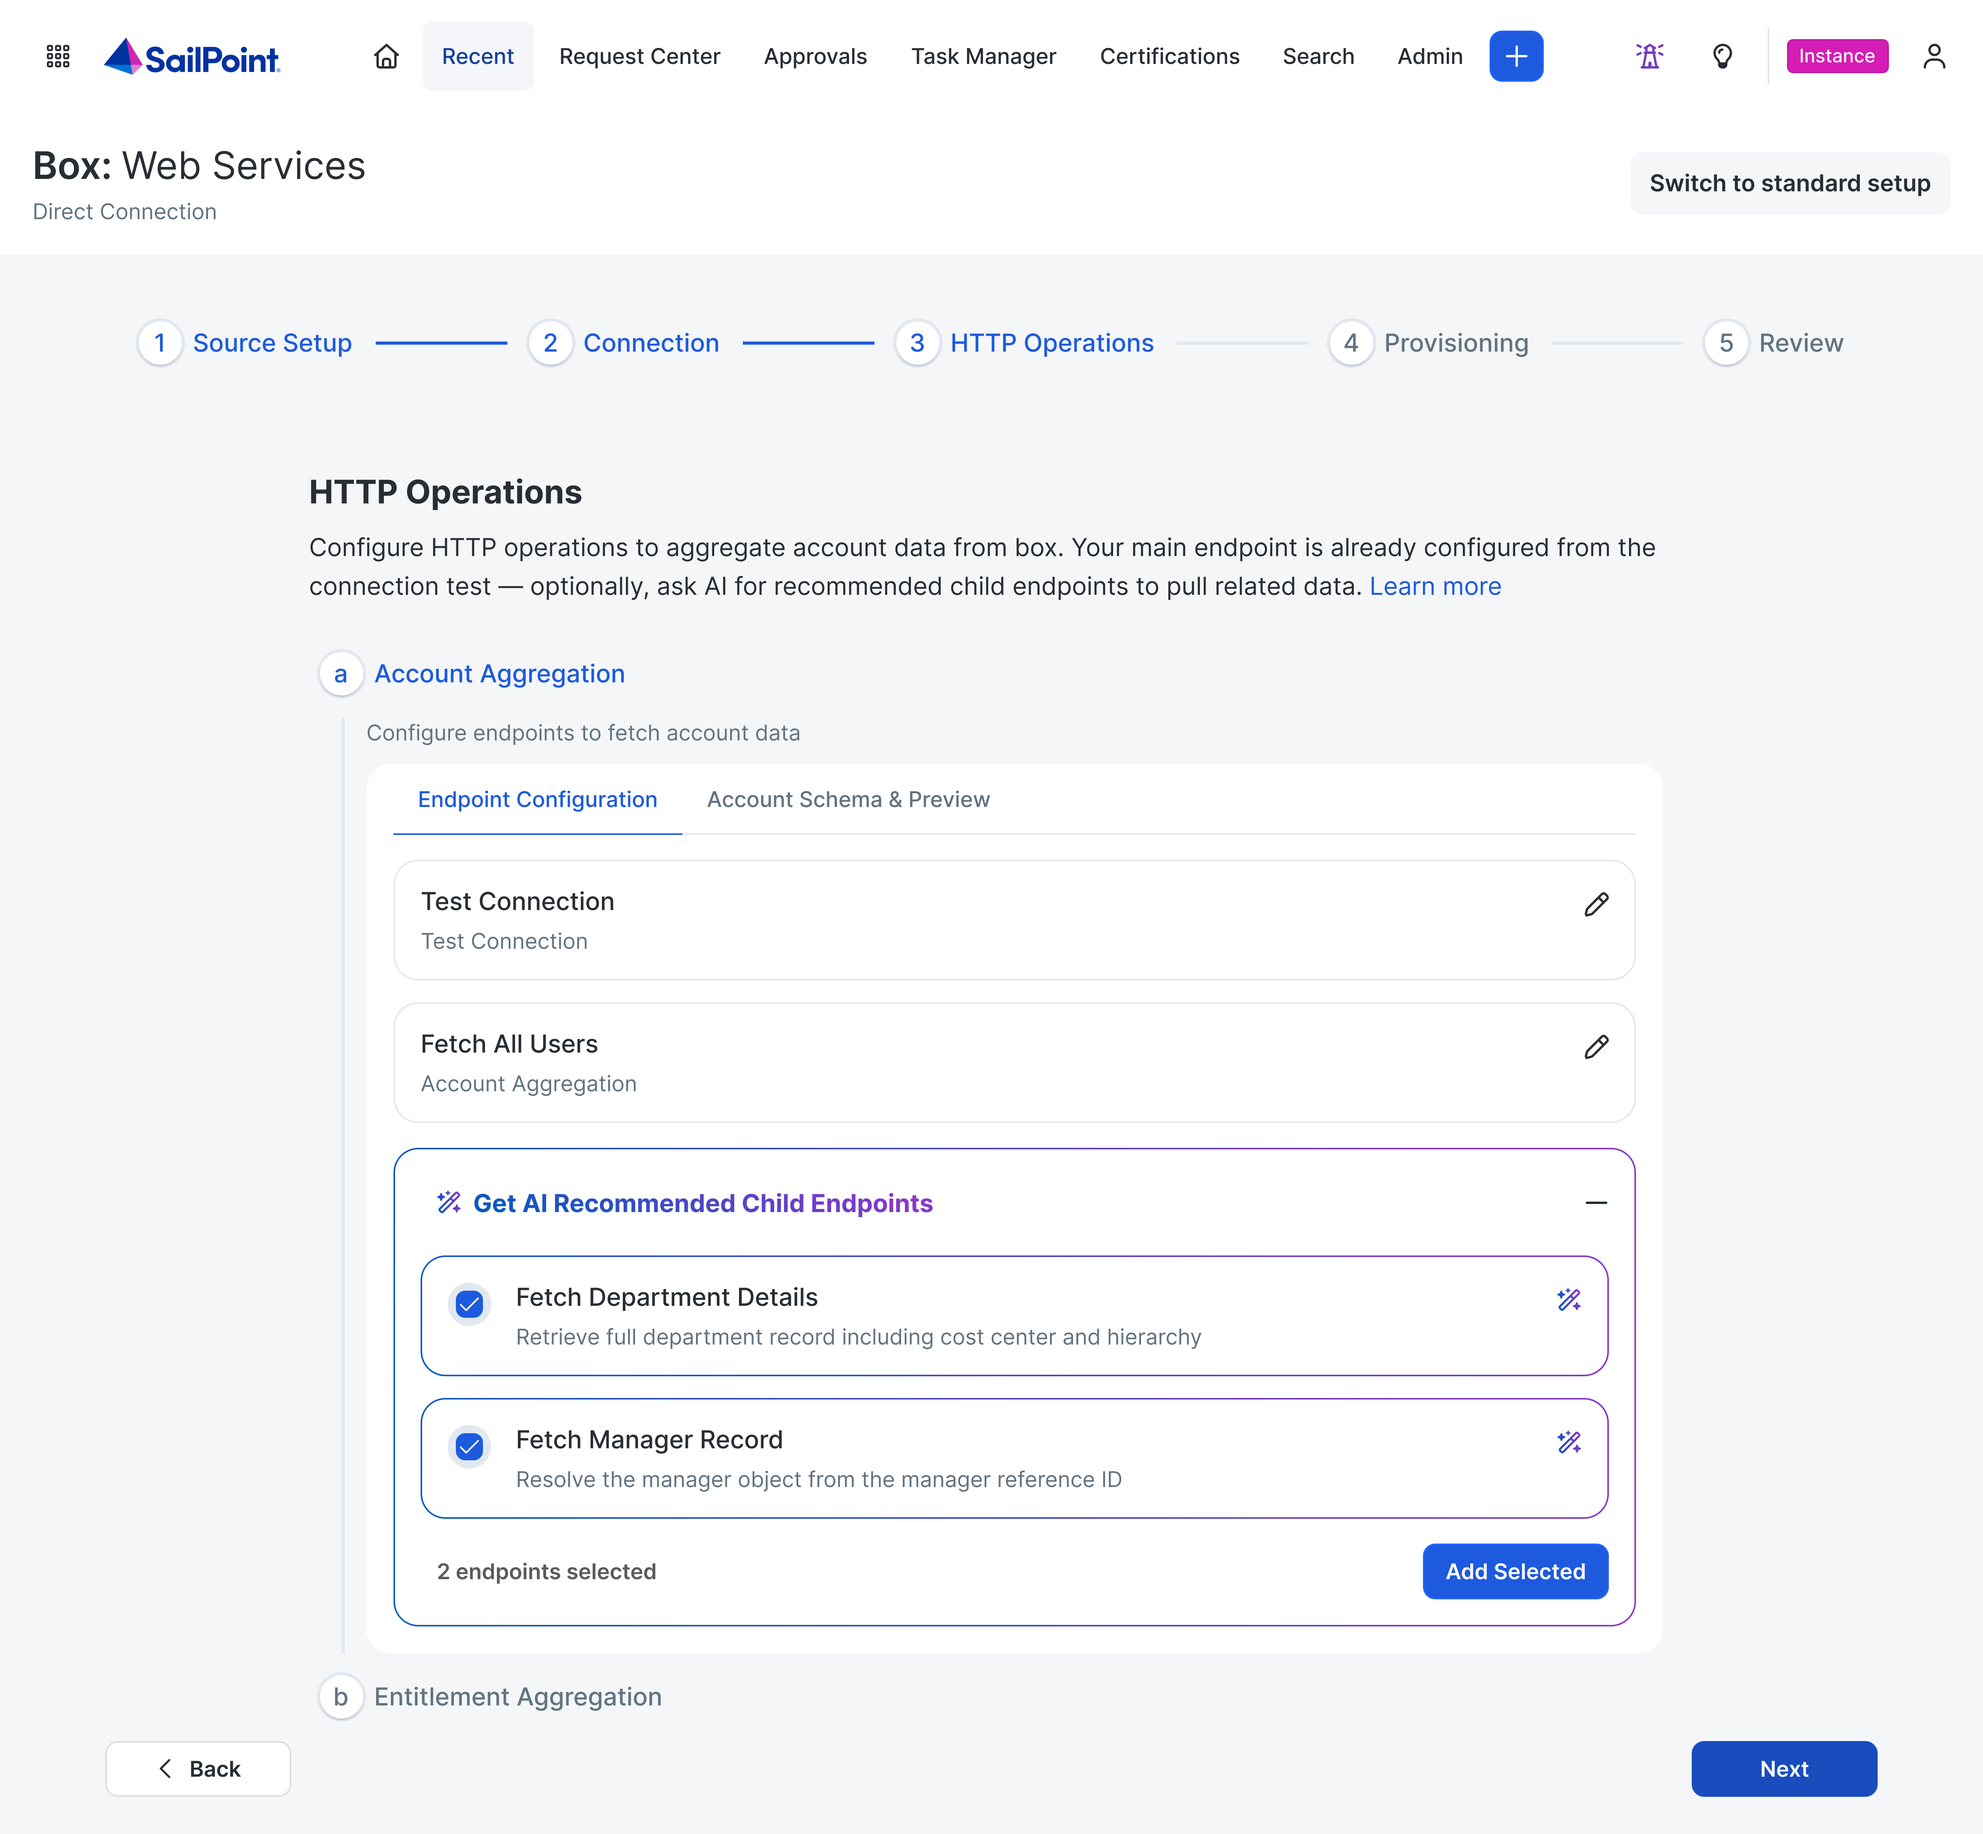
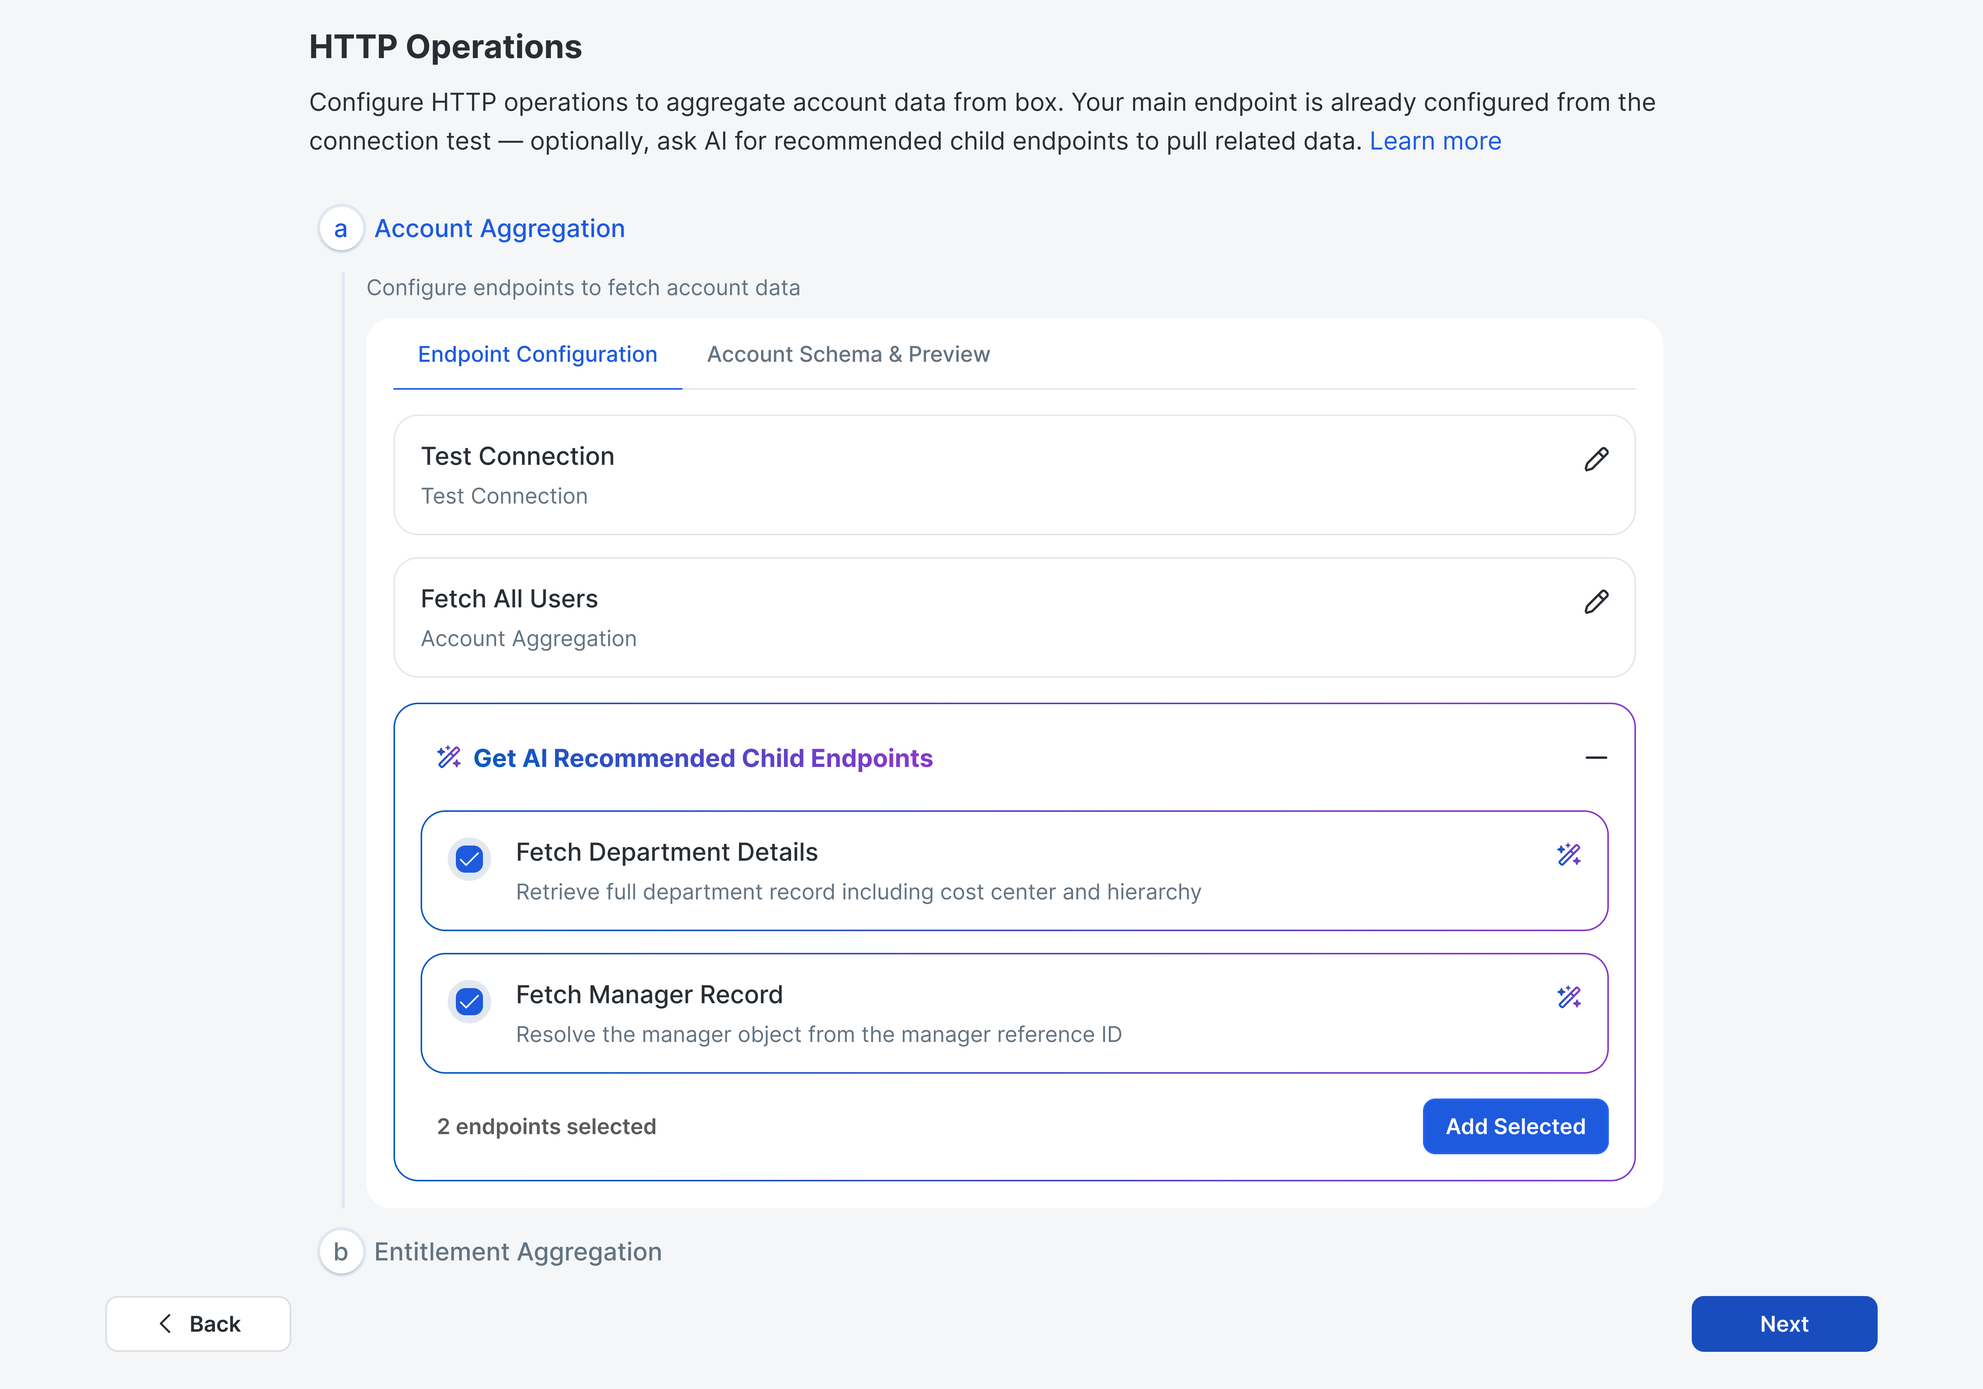
Crop V3 schema screenshot to start at HTTP Operations heading
Removed the SailPoint nav bar, page header, and step indicator
above it, matching how V1/V2 are cropped tight to their content.

diff --git a/Jess Li - Portfolio.dc.html b/Jess Li - Portfolio.dc.html
@@ -1504,7 +1504,7 @@ class Component extends DCLogic {
         {type:'versioncards', items:[
           {v:'V1', title:'Scripted chat', text:`Guided, but rigid.`, img:'assets/sailpoint-schema-v1.png', ratio:'1.601'},
           {v:'V2', title:'Inline AI', text:`Contextual, but cluttered.`, img:'assets/sailpoint-schema-v2.png', ratio:'1.1890'},
-          {v:'V3', title:'Wand + drawer', text:`Progressive, controllable, explainable.`, img:'assets/sailpoint-schema-v3.png', ratio:'1.0811'}
+          {v:'V3', title:'Wand + drawer', text:`Progressive, controllable, explainable.`, img:'assets/sailpoint-schema-v3.png', ratio:'1.4278'}
         ]},
         {type:'section', eyebrow:'Redesigning for Trust', heading:`Moving AI into the workflow`},
         {type:'para', text:`I moved AI out of the dedicated chat panel and into the fields it actually affected. Instead of narrating what the admin could already see, AI could surface recommendations, confidence, and reasoning directly within the configuration flow.`},
